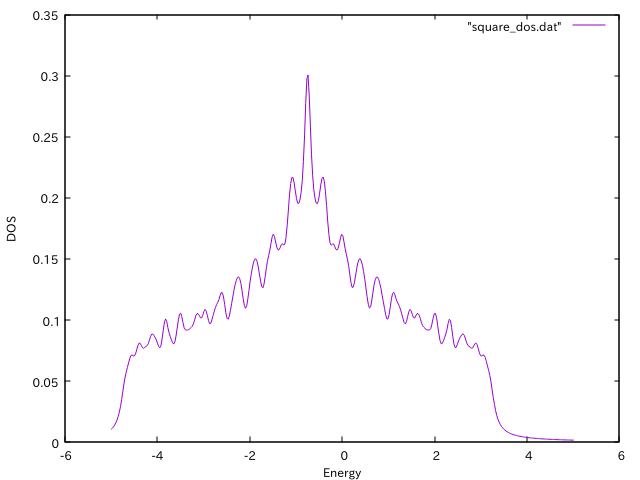
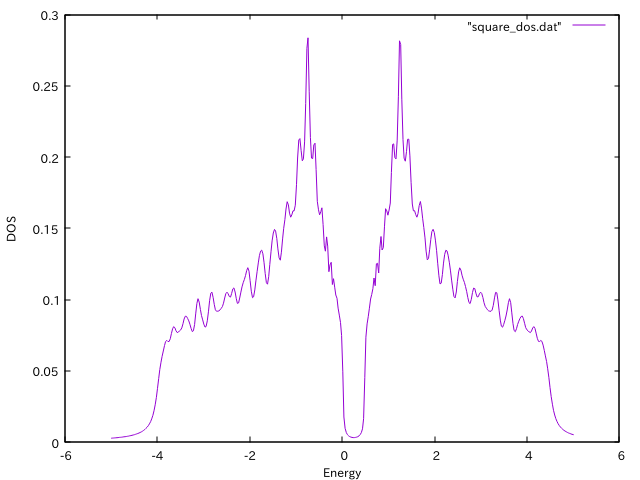
#19 Self-energy was not included.

diff --git a/python/pydmft_post.py b/python/pydmft_post.py
@@ -80,7 +80,7 @@ class DMFTCoreTools:
         if mpi.is_master_node(): print("\n  @ Compute (partial) DOS")
         dos, dosproj, dosproj_orb = SKT.dos_wannier_basis(broadening=self._broadening,
                                                           mesh=[self._omega_min, self._omega_max, self._Nomega],
-                                                          with_Sigma=False, with_dc=False, save_to_file=False)
+                                                          with_Sigma=True, with_dc=False, save_to_file=False)
         #
         # Print DOS to file
         #
